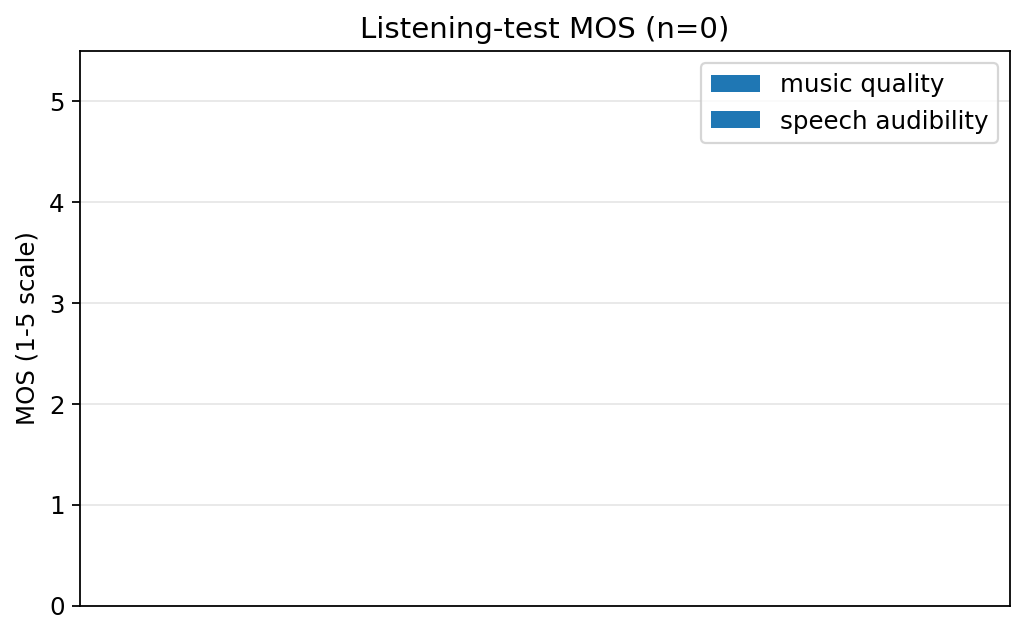
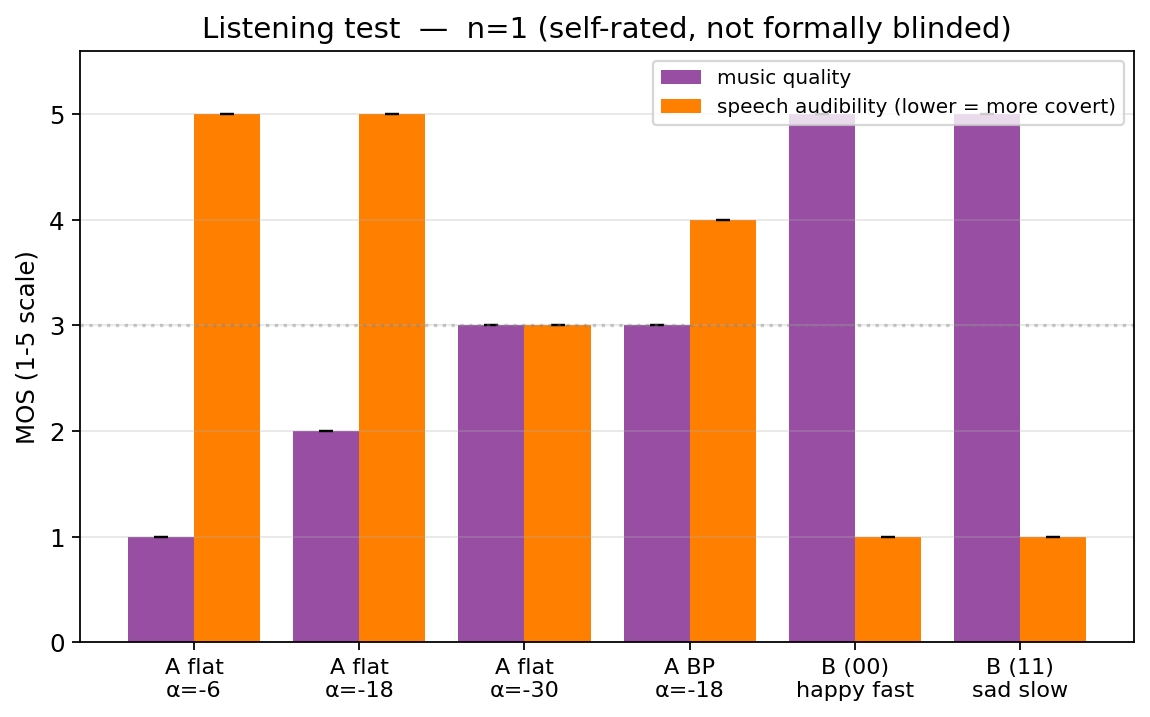
QuizChallenge2: add n=1 listening test — Vector A is not perceptually covert
Self-rated MOS on 6 clips (4 Vector A across alpha + bandpass, 2 Vector B
controls). Listener had not memorised the secret texts but still recovered
"the quick brown fox jumps over the lazy dog" verbatim from clips at
alpha=-6, -18, -30 dB and the bandpass variant.

Result: speech audibility 5/5/3/4 across alpha=-6/-18/-30/-18 BP — the
channel leaks at every gain level tested. Music quality drops from clean=5
to 1 when vocals are mixed in at alpha=-6 dB.

Bandpass-shaping slightly reduced speech audibility (S=4 vs flat S=5 at
alpha=-18) and slightly improved music quality (M=3 vs M=2), but Whisper
WER got WORSE under bandpass — both decoders rely on full-band cues. The
covertness/decodability tradeoff is fundamental, not solvable by simple
spectral shaping.

Deck: 11 slides. Video: 82 s.

Caveats: n=1, self-rated, not formally blinded. Listener was the project
author who had incidental exposure to secret text via project files.

diff --git a/QuizChallenge2/src/make_plots.py b/QuizChallenge2/src/make_plots.py
@@ -111,31 +111,46 @@ def plot_cross_eval(df_a: pd.DataFrame, df_b: pd.DataFrame):
     _save(fig, "04_cross_eval_scatter.png")
 
 
+CLIP_LABELS = {
+    1: "A flat\nα=-6",
+    2: "A flat\nα=-18",
+    3: "A flat\nα=-30",
+    4: "A BP\nα=-18",
+    5: "B (00)\nhappy fast",
+    6: "B (11)\nsad slow",
+}
+
+
 def plot_listening_mos(path: Path | None = None):
-    """Plot 5: listening-test MOS table. Reads listening_test/results.csv if present."""
+    """Plot 5: listening-test MOS bars (music quality + speech audibility per clip)."""
     fpath = path or (ROOT / "listening_test" / "results.csv")
     if not fpath.exists():
         print(f"[plot] skipping listening-test plot — no file at {fpath}")
         return
     df = pd.read_csv(fpath)
-    # expected columns: clip, listener, music_quality, speech_audibility
+    if df.empty:
+        print(f"[plot] skipping listening-test plot — empty results.csv")
+        return
     g = df.groupby("clip").agg(
         music_q_mean=("music_quality", "mean"),
         music_q_std=("music_quality", "std"),
         speech_aud_mean=("speech_audibility", "mean"),
         speech_aud_std=("speech_audibility", "std"),
-    ).reset_index()
-    fig, ax = plt.subplots(figsize=(7.5, 4.5))
+    ).reset_index().sort_values("clip")
+    fig, ax = plt.subplots(figsize=(8.5, 4.8))
     x = np.arange(len(g))
     width = 0.4
-    ax.bar(x - width / 2, g["music_q_mean"], width, yerr=g["music_q_std"].fillna(0), label="music quality", color="#984ea3", capsize=3)
-    ax.bar(x + width / 2, g["speech_aud_mean"], width, yerr=g["speech_aud_std"].fillna(0), label="speech audibility", color="#ff7f00", capsize=3)
+    ax.bar(x - width / 2, g["music_q_mean"], width,
+           yerr=g["music_q_std"].fillna(0), label="music quality", color="#984ea3", capsize=3)
+    ax.bar(x + width / 2, g["speech_aud_mean"], width,
+           yerr=g["speech_aud_std"].fillna(0), label="speech audibility (lower = more covert)", color="#ff7f00", capsize=3)
     ax.set_xticks(x)
-    ax.set_xticklabels(g["clip"], rotation=20)
+    ax.set_xticklabels([CLIP_LABELS.get(int(c), str(c)) for c in g["clip"]], fontsize=10)
     ax.set_ylabel("MOS (1-5 scale)")
-    ax.set_title(f"Listening-test MOS (n={df['listener'].nunique()})")
-    ax.set_ylim(0, 5.5)
-    ax.legend()
+    ax.set_title(f"Listening test  —  n={df['listener'].nunique()} (self-rated, not formally blinded)")
+    ax.set_ylim(0, 5.6)
+    ax.axhline(3.0, color="gray", linestyle=":", alpha=0.4)
+    ax.legend(loc="upper right", fontsize=9)
     ax.grid(axis="y", alpha=0.3)
     _save(fig, "05_listening_mos.png")
 

diff --git a/QuizChallenge2/src/make_slides.py b/QuizChallenge2/src/make_slides.py
@@ -334,6 +334,25 @@ def slide_9(prs):
     )
 
 
+def slide_listening(prs):
+    return slide_plot(
+        prs,
+        "Listening test — Vector A is not perceptually covert",
+        "05_listening_mos.png",
+        [
+            {"text": "Setup", "size": 18, "bold": True, "color": ACCENT},
+            {"text": "n=1 self-rated, not formally blinded. Listener had not memorized the secret texts before listening.", "size": 12, "color": NAVY},
+            {"text": "Headline result", "size": 18, "bold": True, "color": ACCENT},
+            {"text": "Listener recovered 'the quick brown fox jumps over the lazy dog' VERBATIM from clips at α=-6, -18, -30 dB and the bandpass variant — without prior memorisation.", "size": 12, "color": NAVY, "bold": True},
+            {"text": "Vector A is not covert at any tested setting.", "size": 14, "color": ACCENT, "bold": True},
+            {"text": "Music vs speech", "size": 18, "bold": True, "color": ACCENT},
+            {"text": "Music quality drops 5 → 1 with vocals at α=-6; recovers to 3 at α=-30 (loud vocals destroy the cover).", "size": 12, "color": NAVY},
+            {"text": "Vector B sanity check", "size": 18, "bold": True, "color": ACCENT},
+            {"text": "Clean carriers rated 5/5 music, 1/5 speech — confirms B has no leaked speech.", "size": 12, "color": NAVY},
+        ],
+    )
+
+
 def slide_10(prs):
     s = prs.slides.add_slide(BLANK)
     header(s, "Limitations  ·  Ethics  ·  Future work  ·  AI disclosure")
@@ -344,7 +363,7 @@ def slide_10(prs):
     add_textbox(
         s, Inches(0.7), Inches(1.85), Inches(6), Inches(2.4),
         [
-            {"text": "•  No human listening test (n=0) — flagged as next-step", "size": 13},
+            {"text": "•  Listening test n=1 self-rated, not formally blinded", "size": 13},
             {"text": "•  English-only secrets, single TTS speaker (CMU Arctic xvector idx 7306)", "size": 13},
             {"text": "•  Single carrier model (MusicGen-small)", "size": 13},
             {"text": "•  No active steganalysis tested", "size": 13},
@@ -405,6 +424,7 @@ def main():
     slide_7(prs)
     slide_8(prs)
     slide_9(prs)
+    slide_listening(prs)
     slide_10(prs)
     prs.save(OUT)
     print(f"saved {OUT} ({len(prs.slides)} slides)")